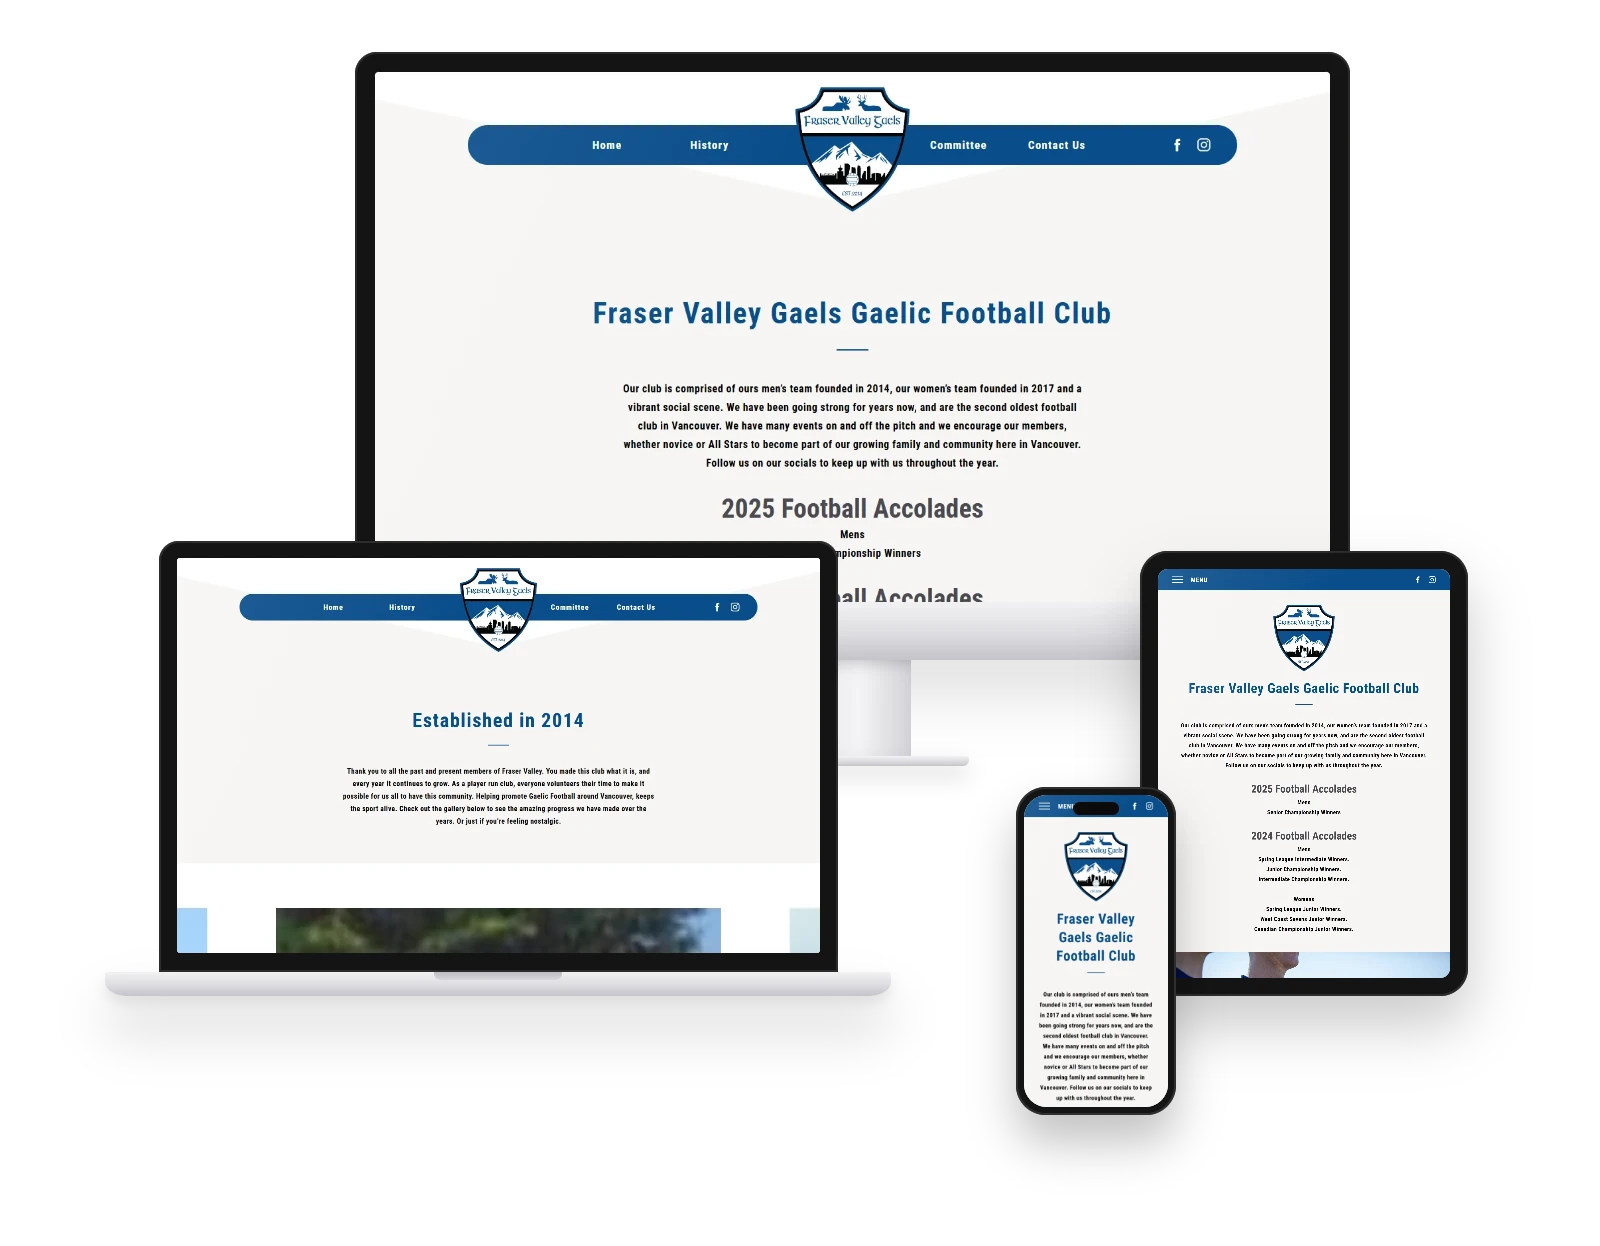
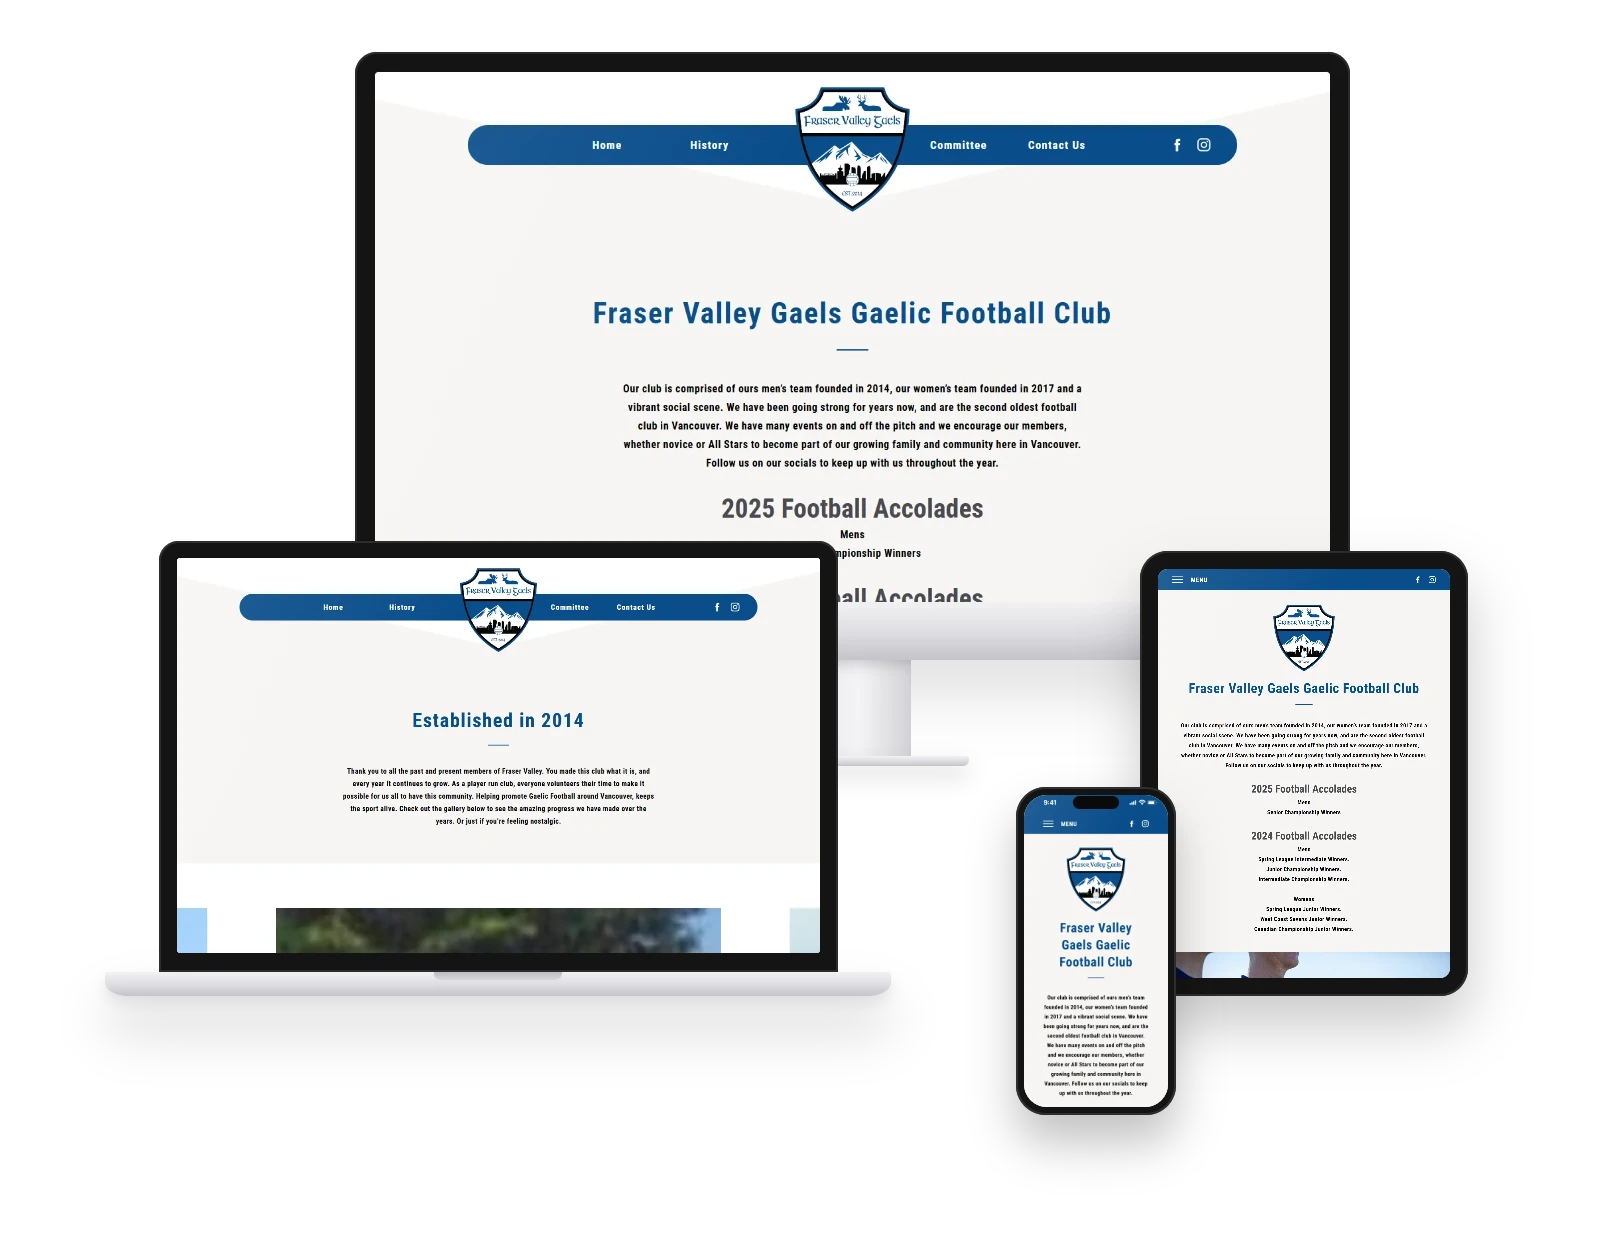
Devices mockups: the iPhone gets a phone status bar, and LNDMRK uses the script-made mockup
The island now sits in the status bar instead of on the site's logo. LNDMRK's
hand-made devices.webp stays in its folder but is no longer shown.

Changed region(s): [[0.625, 0.6404, 0.75, 0.8844]]

diff --git a/scripts/devices-mockup.js b/scripts/devices-mockup.js
@@ -1,5 +1,6 @@
 // Makes the "all devices" mockup for a case study's last 50/50 row: an iMac, a MacBook, an iPad and an iPhone,
-// overlapping like LNDMRK's hand-made one (public/images/work/lndmrk/devices.webp), each showing the client's site.
+// overlapping like the hand-made original for LNDMRK (public/images/work/lndmrk/devices.webp, no longer shown), each
+// showing the client's site.
 // Used by scripts/capture-pages.js (npm run capture) after it has taken the screenshots.
 //
 // The devices are drawn in HTML and CSS (dark bezels, silver stand and base, soft shadows) and filled with the
@@ -7,7 +8,8 @@
 // - the iMac shows the top of the home page (01-...webp), the MacBook the top of the next page (02-...webp, or the
 //   home page again if there's only one)
 // - the iPad shows tablet-portrait.webp (the home page on an upright iPad), or tablet.webp if that's missing
-// - the iPhone shows phone.webp
+// - the iPhone shows phone-status.webp (the phone screenshot with an iPhone status bar, scripts/phone-status.js),
+//   or phone.webp if that's missing, like every phone picture on the site
 // The page is rendered in headless Chrome with a see-through background and saved as pages/devices.webp,
 // 1600 x 1246 like LNDMRK's (WebP keeps the transparency, so it sits on any panel colour).
 //
@@ -92,8 +94,9 @@ const template = ({ desktop, laptop, tablet, phone }) => `<!doctype html>
     box-shadow: inset 0 0 0 2px #2e2e2e, 0 28px 45px rgb(0 0 0 / 0.24);
   }
   .iphone .screen { height: 100%; border-radius: 23px; }
+  /* The island sits in phone-status.webp's status bar, level with its time and icons (41 of 780 down the screen). */
   .iphone__island {
-    position: absolute; left: 50%; top: 15px; width: 46px; height: 13px; translate: -50% 0;
+    position: absolute; left: 50%; top: 9px; width: 46px; height: 13px; translate: -50% 0;
     border-radius: 999px; background: #0a0a0a; z-index: 1;
   }
 </style>
@@ -125,7 +128,7 @@ export async function makeDevicesMockup(browser, dir) {
     desktop: pages[0],
     laptop: pages[1] || pages[0],
     tablet: pick('tablet-portrait.webp', 'tablet.webp'),
-    phone: pick('phone.webp'),
+    phone: pick('phone-status.webp', 'phone.webp'),
   };
   if (Object.values(shots).some((file) => !file)) return null;
 

diff --git a/work/lndmrk/index.html b/work/lndmrk/index.html
@@ -110,7 +110,7 @@
                 <include src="view-code-private.html"></include>
               </div>
             </div>
-            <include src="work-split-devices.html" image="/images/work/lndmrk/devices.webp" width="1600" height="1246" alt="The LNDMRK website on an iMac, a MacBook, an iPad and an iPhone"></include>
+            <include src="work-split-devices.html" image="/images/work/lndmrk/pages/devices.webp" width="1600" height="1246" alt="The LNDMRK website on an iMac, a MacBook, an iPad and an iPhone"></include>
           </div>
         </div>
       </section>
